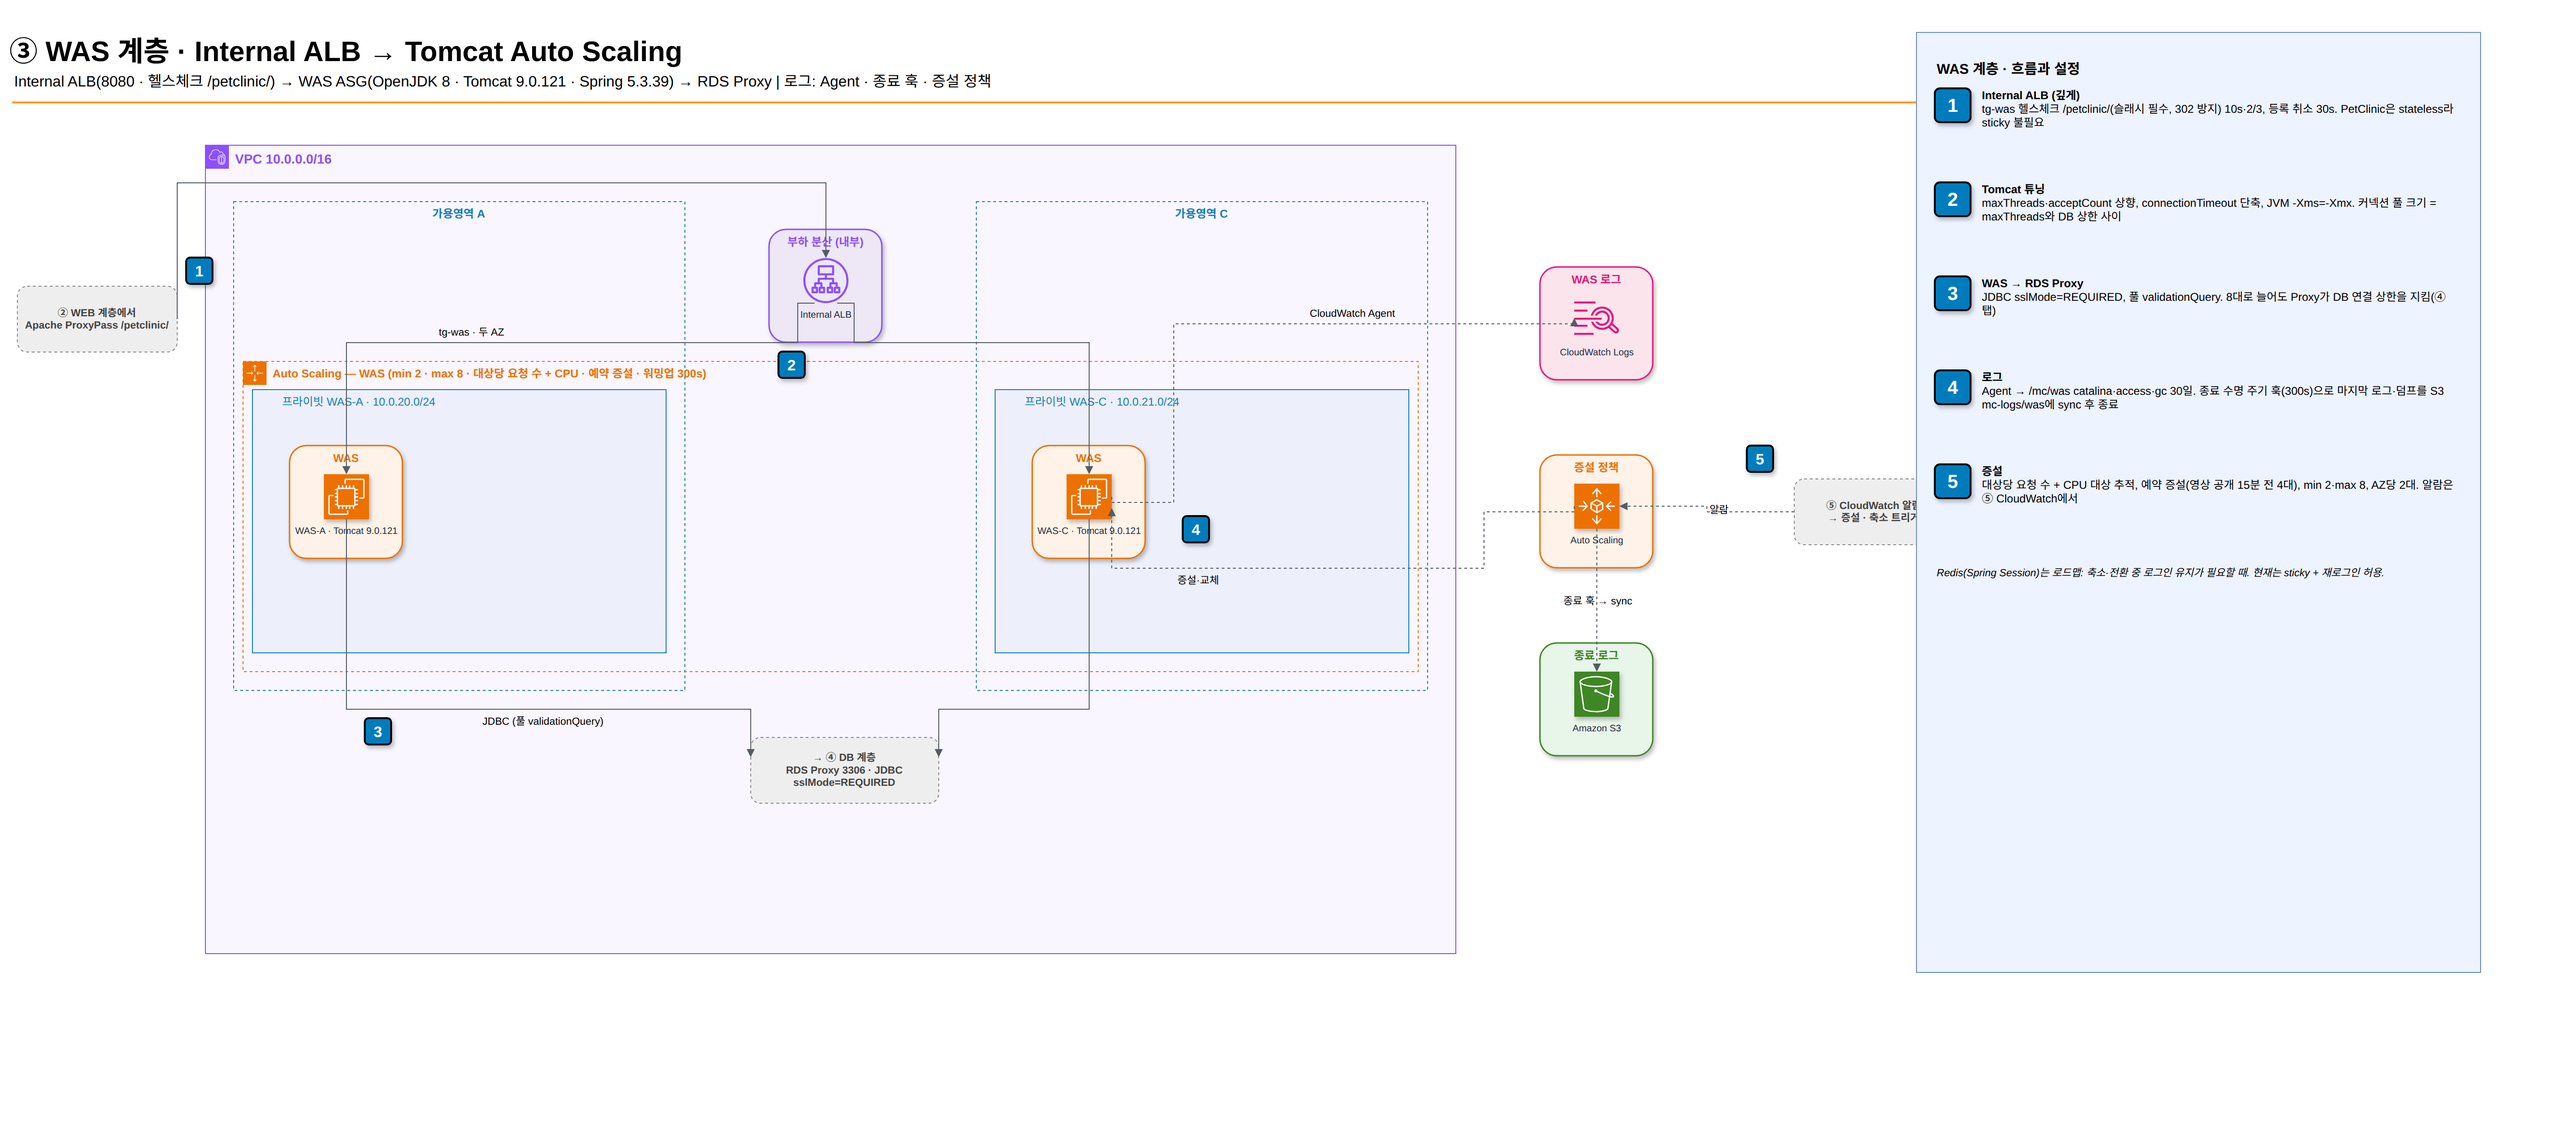
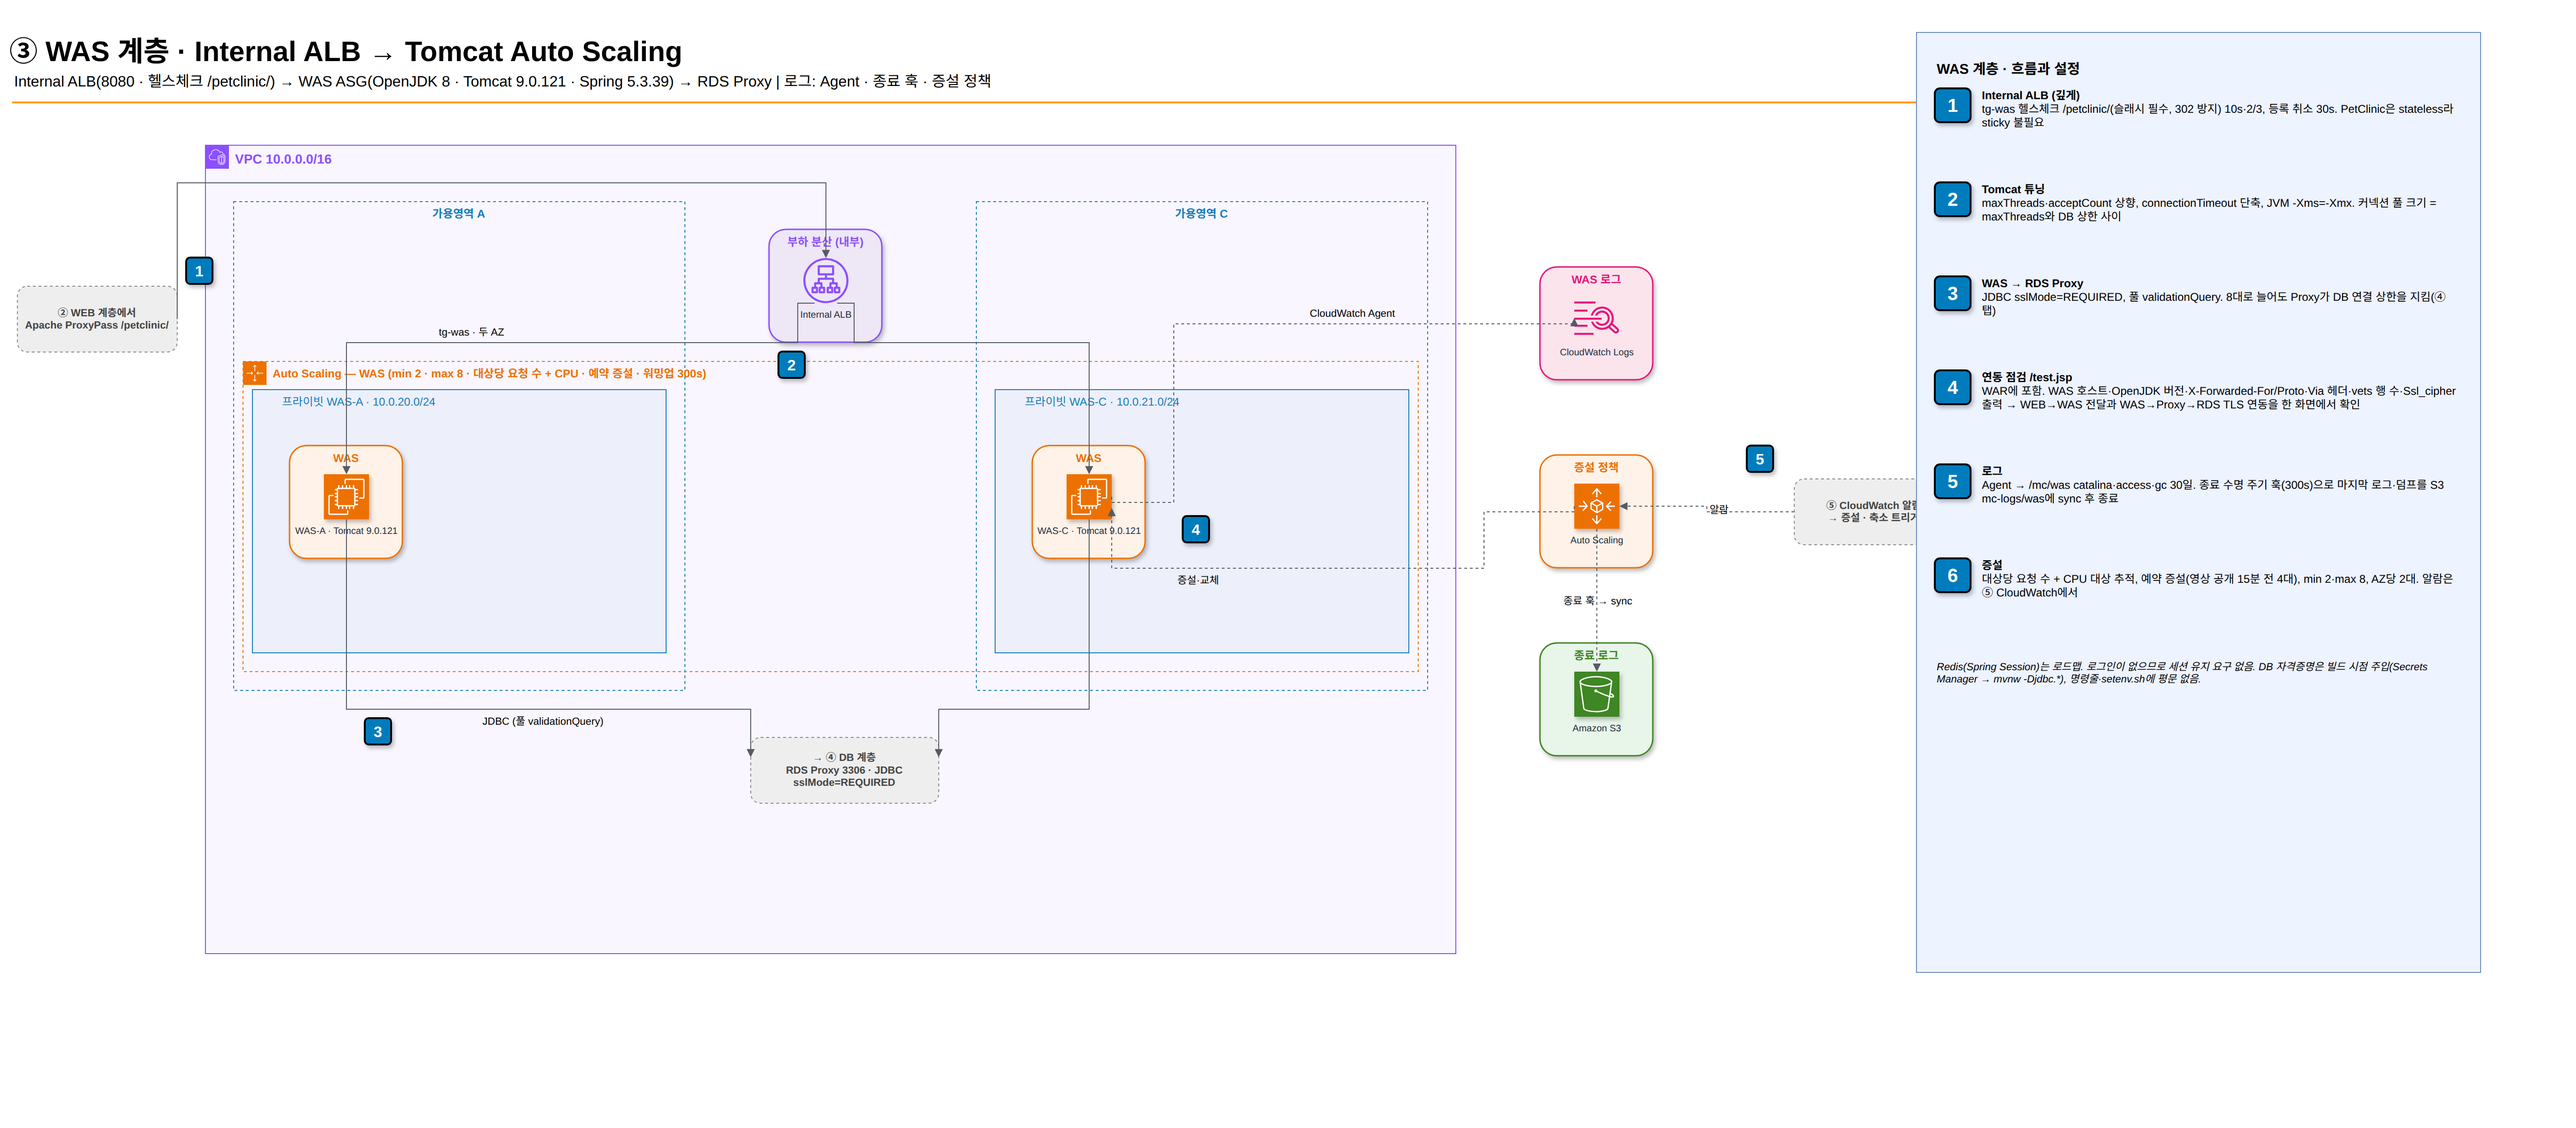
docs: 도면 진입 계층 문구에서 Cognito 제거(X-Origin-Verify), WAS 탭에 test.jsp 연동 점검 항목 추가, PNG 재생성

diff --git a/docs/architecture-tiered-tabs.py b/docs/architecture-tiered-tabs.py
@@ -104,7 +104,7 @@ mxfile.append(full)
 
 # ================= tab 2: 진입 계층 =================
 p = Page("1. 네트워크 진입 계층 · 글로벌 엣지", "tab-entry", 2300, 1000)
-p.title("① 네트워크 진입 계층 · 글로벌 엣지", "사용자 → Route 53 → CloudFront [WAF Web ACL · ACM 부착] → ALB / S3(OAC) · Cognito는 ALB 인증 · WAF 로그", 2200)
+p.title("① 네트워크 진입 계층 · 글로벌 엣지", "사용자 → Route 53 → CloudFront [WAF Web ACL · ACM 부착] → ALB / S3(OAC) · X-Origin-Verify로 오리진 보호 · WAF 로그", 2200)
 p.vertex("cloud", "AWS Cloud (글로벌 엣지 · us-east-1)", STY["cloud"], 260, 150, 1330, 760)
 p.actor("users", "사용자 (의료진·환자)", 60, 330)
 p.service("r53", "DNS", "Amazon Route 53", "별칭 A/AAAA → CloudFront<br>Failover 없음(오리진 그룹으로 대체)", "route_53", "net", 320, 320)
@@ -187,7 +187,7 @@ p.vertex("was-a-sub", "프라이빗 WAS-A · 10.0.20.0/24", STY["priv"], 310, 41
 p.vertex("was-c-sub", "프라이빗 WAS-C · 10.0.21.0/24", STY["priv"], 1100, 410, 440, 280)
 p.stub("from-web", "② WEB 계층에서<br>Apache ProxyPass /petclinic/", 60, 300)
 p.service("ialb", "부하 분산 (내부)", "Internal ALB", "8080 · tg-was<br>헬스체크 /petclinic/", "application_load_balancer", "net", 860, 240, kind="sub")
-p.service("was-a", "WAS", "WAS-A · Tomcat 9.0.121", "OpenJDK 8 · Tomcat 9.0.121<br>maxThreads·acceptCount 튜닝", "ec2", "compute", 350, 470)
+p.service("was-a", "WAS", "WAS-A · Tomcat 9.0.121", "OpenJDK 8 · Tomcat 9.0.121<br>maxThreads·acceptCount 튜닝<br>/test.jsp: 헤더·DB 연동 점검", "ec2", "compute", 350, 470)
 p.service("was-c", "WAS", "WAS-C · Tomcat 9.0.121", "AZ당 2대<br>한 AZ 손실 시 피크 100%", "ec2", "compute", 1140, 470)
 p.stub("to-db", "→ ④ DB 계층<br>RDS Proxy 3306 · JDBC sslMode=REQUIRED", 840, 780, 200, 70)
 p.service("cwl-was", "WAS 로그", "CloudWatch Logs", "/mc/was catalina·access·gc<br>보존 30일", "cloudwatch_logs", "integ", 1680, 280, kind="sub")
@@ -208,9 +208,10 @@ p.legend(2080, 30, 1000, "WAS 계층 · 흐름과 설정", [
  ("Internal ALB (깊게)", "tg-was 헬스체크 /petclinic/(슬래시 필수, 302 방지) 10s·2/3, 등록 취소 30s. PetClinic은 stateless라 sticky 불필요"),
  ("Tomcat 튜닝", "maxThreads·acceptCount 상향, connectionTimeout 단축, JVM -Xms=-Xmx. 커넥션 풀 크기 = maxThreads와 DB 상한 사이"),
  ("WAS → RDS Proxy", "JDBC sslMode=REQUIRED, 풀 validationQuery. 8대로 늘어도 Proxy가 DB 연결 상한을 지킴(④ 탭)"),
+ ("연동 점검 /test.jsp", "WAR에 포함. WAS 호스트·OpenJDK 버전·X-Forwarded-For/Proto·Via 헤더·vets 행 수·Ssl_cipher 출력 → WEB→WAS 전달과 WAS→Proxy→RDS TLS 연동을 한 화면에서 확인"),
  ("로그", "Agent → /mc/was catalina·access·gc 30일. 종료 수명 주기 훅(300s)으로 마지막 로그·덤프를 S3 mc-logs/was에 sync 후 종료"),
  ("증설", "대상당 요청 수 + CPU 대상 추적, 예약 증설(영상 공개 15분 전 4대), min 2·max 8, AZ당 2대. 알람은 ⑤ CloudWatch에서"),
-], note="Redis(Spring Session)는 로드맵: 축소·전환 중 로그인 유지가 필요할 때. 현재는 sticky + 재로그인 허용.")
+], note="Redis(Spring Session)는 로드맵. 로그인이 없으므로 세션 유지 요구 없음. DB 자격증명은 빌드 시점 주입(Secrets Manager → mvnw -Djdbc.*), 명령줄·setenv.sh에 평문 없음.")
 mxfile.append(p.d)
 
 # ================= tab 5: DB 계층 · 확장 =================
